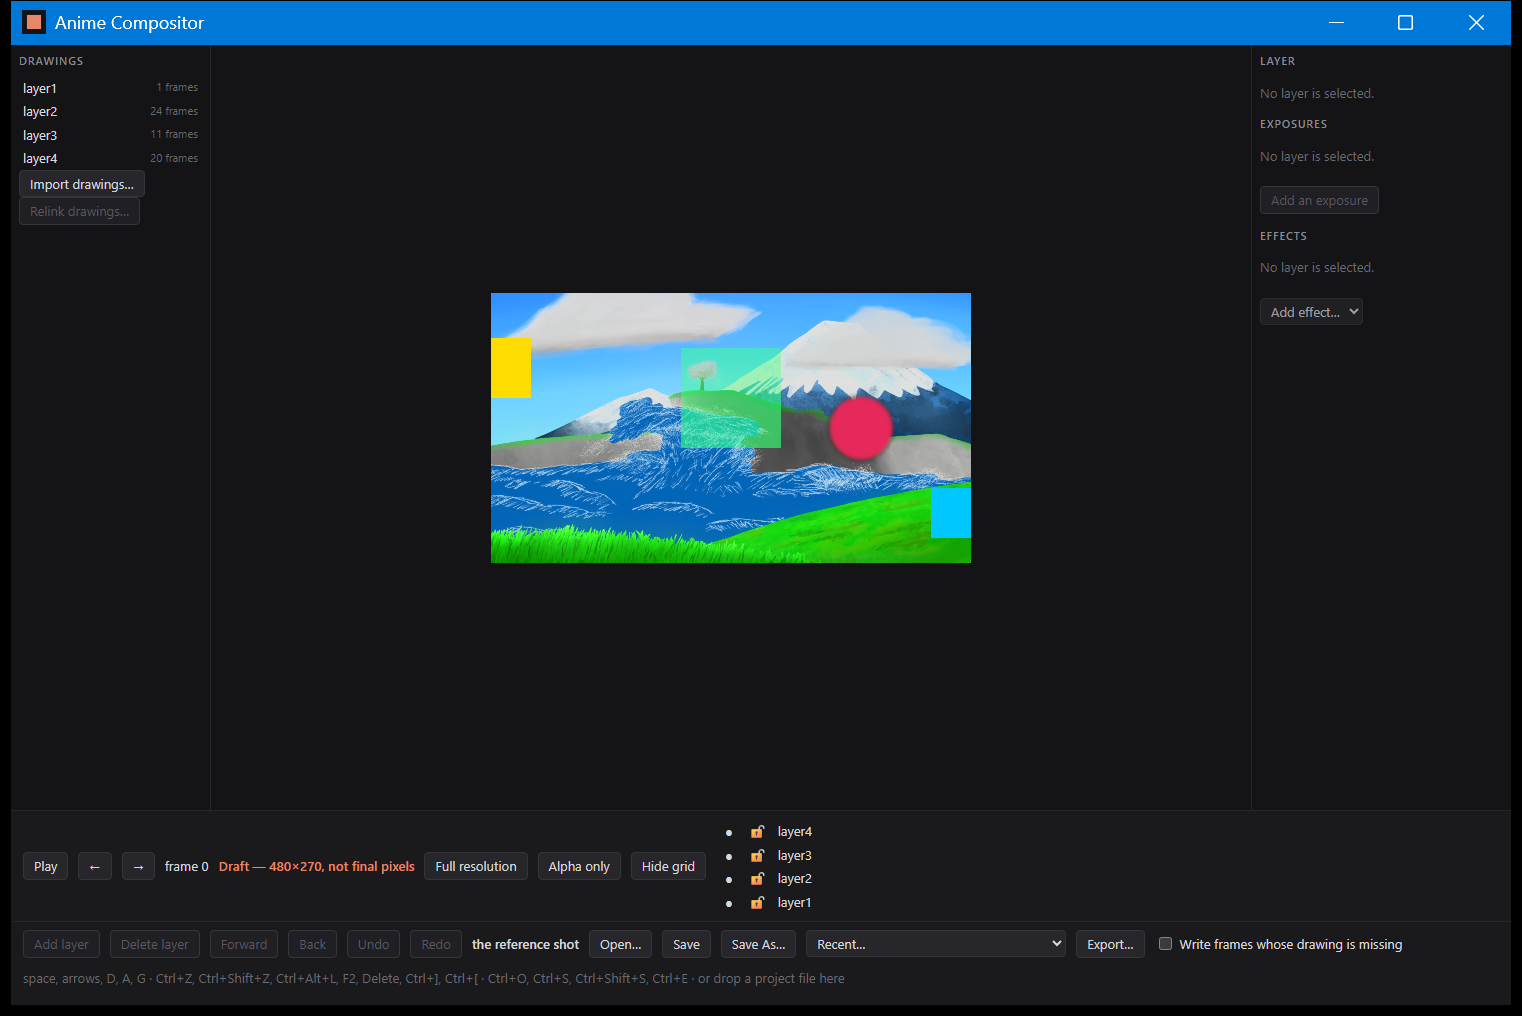
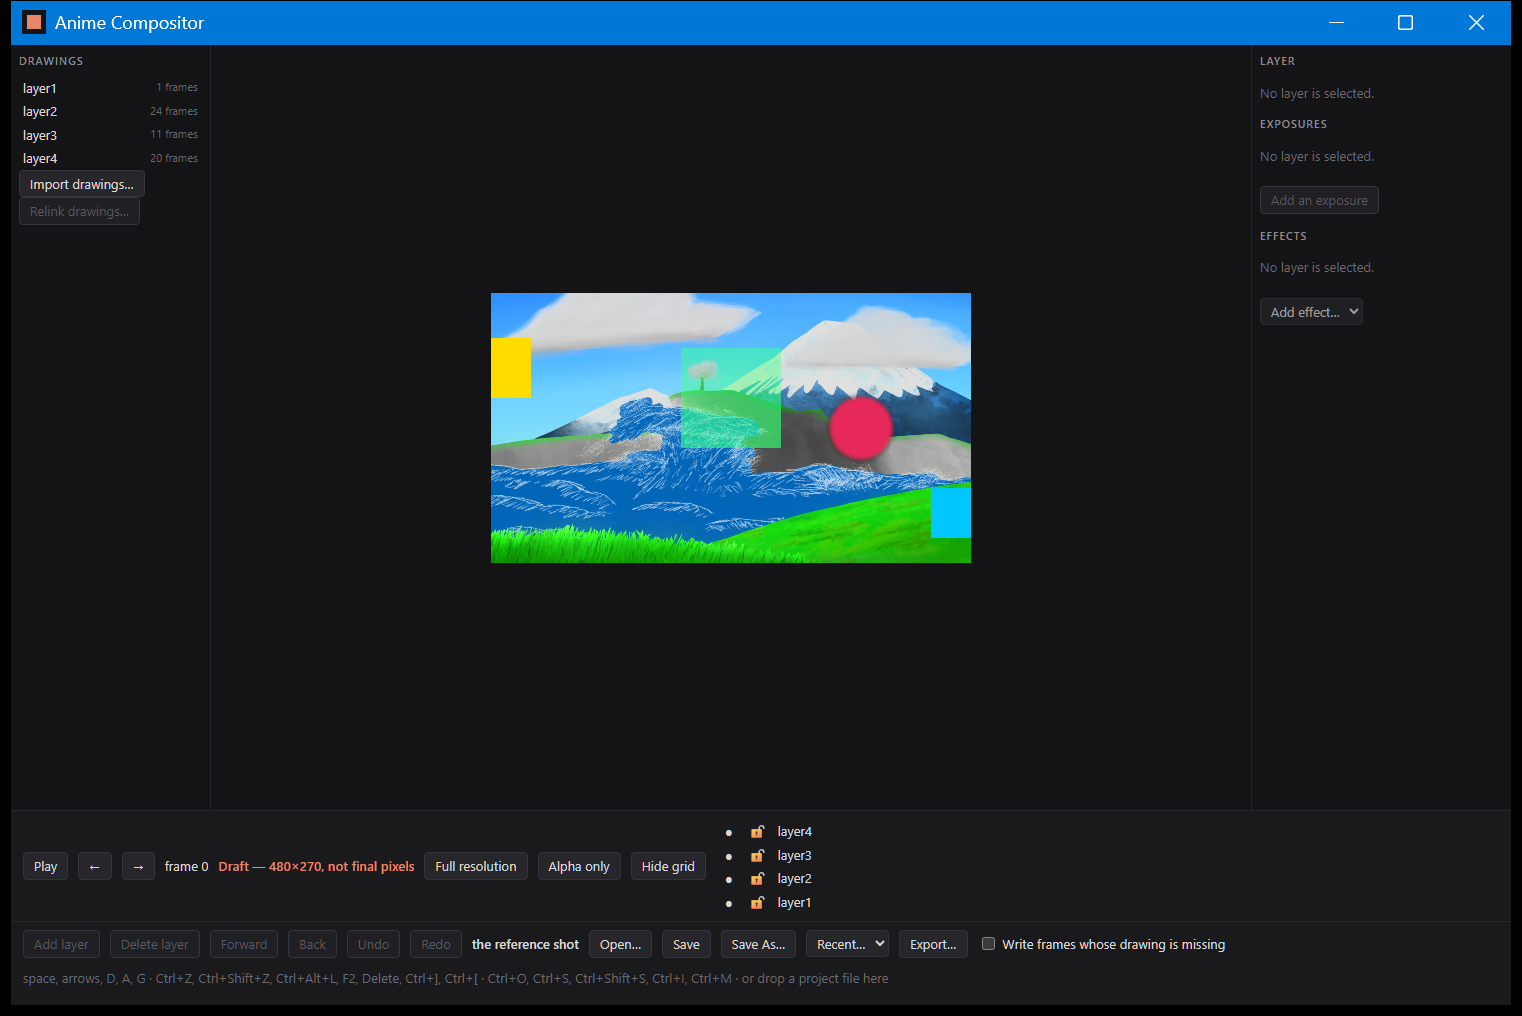
Retake the stale window photographs, and photograph the effects panel (#48)
The four B-12a photographs were taken before the nineteenth hardening pass
corrected the export shortcut in the page, so their keyboard hint line still
read Ctrl+E for a window that answers Ctrl+M. A photograph is the one artifact
here that no test regenerates, so a picture of a window that no longer exists
goes on looking right. All four are retaken against today's build, and a fifth
is added: the three inspectors with something in them, which none of the four
could show because they were all taken with the reference shot, where layer4
has eighty exposure spans and EFFECTS is far below the bottom of the column.
verification/B-12c_effects_shot.json is a six-frame project made for that
photograph and kept beside it, pointing at the reference shot's own drawings.

Retaking them found two defects in the window, both fixed here.

The space bar did two things at once. A focused row in the layer list answered
Space by selecting the layer and preventing the default; the accelerators are a
listener on the window, so the same press reached them afterwards and started
playback. The first retake of the keyboard photograph is a picture of layer4
being selected and the shot playing. A key whose default has already been
answered is now finished with.

An exposure row would not wrap. In a column this narrow the row was wider than
its room, so the whole inspector grew a horizontal scroll bar and every row read
"frames 0 to 2, sh..." with the drawing number off the edge - the one thing an
[…]

diff --git a/app/ui/index.html b/app/ui/index.html
@@ -148,7 +148,10 @@
   #inspector #addeffect, #inspector #addexposure { margin-top: 8px; }
   /* One row per exposure span, in frame order: which frames it covers and which drawing they
      show. This is the exposure sheet W-01 asks the artist to assign, in the panel. */
-  .exposure { display: flex; align-items: baseline; gap: 4px; margin-bottom: 4px; }
+  /* Wrapping, because the column is narrow and a row that cannot wrap makes the whole
+     inspector scroll sideways instead: the photograph of the effects panel found
+     "show drawing" cut off at the column's edge. */
+  .exposure { display: flex; flex-wrap: wrap; align-items: baseline; gap: 4px; margin-bottom: 4px; }
   .exposure span { color: #8b8b94; }
   .exposure input[type=number] { width: 4.5em; }
   .exposure .gone { color: #e8b06a; }
@@ -1024,6 +1027,13 @@ addEventListener('keydown', (e) => {
   // to save rather than start playback, and an arrow on the recent list has to move through the
   // list. Everything else falls through to the accelerators, which are for when nothing in
   // particular is focused.
+  //
+  // And a key a control has already answered is finished with. A row in one of the lists is an
+  // `li`, which the search below does not match and cannot be made to match without matching
+  // every other element too; its own handler answers Space by choosing the row and says so by
+  // preventing the default. Without this line the same press also reached the accelerators and
+  // started playback, which is a photograph of a layer being selected and the shot playing.
+  if (e.defaultPrevented) return;
   const el = e.target instanceof Element
     ? e.target.closest('button, select, input, .scrub, [contenteditable]') : null;
   const typing = renaming || (el && el.tagName === 'INPUT' && el.type !== 'checkbox');

diff --git a/verification/B-12a_window_and_keyboard.md b/verification/B-12a_window_and_keyboard.md
@@ -2,9 +2,16 @@
 
 The eight tables under `B-12a_*_table.md` say that every command the editing panels invoke does
 what it claims. None of them can say that the panels are on the screen, laid out, and operable.
-That is what these four photographs are for, and Q-03 — display scaling and keyboard
-reachability — is the requirement they answer for this window. One keyboard defect was found
-here and is fixed.
+That is what these five photographs are for, and Q-03 — display scaling and keyboard
+reachability — is the requirement they answer for this window. Three defects were found here and
+all three are fixed.
+
+**Retaken on 2026-09-08, under B-12c.** All five were captured against the build of that day. The
+four that existed before were stale in a way worth naming: their keyboard hint line still read
+`Ctrl+E` for the export, which document 24 names as `Ctrl+M` and the nineteenth hardening pass
+corrected in the page months after the pictures were taken. A photograph is the one artifact in
+this repository that no test regenerates, so a photograph of a window that no longer exists goes
+on looking right. Retaking them found the second and third defects below.
 
 ## 1. The five panels
 
@@ -30,15 +37,19 @@ empty box is never mistaken for a value of zero.
 
 ![layer4 chosen by keyboard](B-12a_keyboard.png)
 
-Thirteen presses of Tab and then a space, no mouse at any point. The thirteenth stop is layer4
+Twelve presses of Tab and then a space, no mouse at any point. The twelfth stop is layer4
 in the layer list, the space chooses it, and the LAYER panel fills in on the right: Name,
 Identifier, Drawing, Frames, Anchor, Position, Scale, Rotation, Opacity, Blend, Mask, Matte. The
 transform inspector being populated is the evidence — it is only ever populated for a selected
 layer.
 
 ```
-powershell -ExecutionPolicy Bypass -File tools/capture_window.ps1 -Name B-12a_keyboard -Keys "<13 tabs> "
+powershell -ExecutionPolicy Bypass -Command "& ./tools/capture_window.ps1 -Name B-12a_keyboard -Keys (([char]9).ToString()*12 + ' ')"
 ```
+
+Twelve rather than the thirteen this said before, because a disabled button is not a stop on the
+Tab order and Relink drawings…, Add an exposure and Add effect… are all disabled while nothing is
+selected. The count is a property of the window in this state, not a promise.
 
 **The defect this found, and the fix.** The rows in the layer list and the media bin were
 reachable by Tab and showed a focus ring, so they looked keyboard-operable. They were not: a row
@@ -47,6 +58,17 @@ walk onto a layer and then have no way to select it. Reachable is not the same a
 lists are built by one `row()` function in `app/ui/index.html`, so one handler there fixes both:
 Enter and Space now do what the mouse does. B-11's rule that a focused control keeps the keys it
 is given is what makes the space bar select the row instead of starting playback.
+
+**The second defect, found by retaking this photograph.** The space bar did both. The first
+version of this picture, taken on 2026-09-08 against the build of that day, shows layer4 selected
+*and* the shot playing — Pause on the transport, frame 37, and a line about dropped frames along
+the bottom. The row's own handler chose the row and prevented the default; the accelerators are a
+listener on the window, the event reached them afterwards as it bubbled, and nothing there asked
+whether the key had already been answered. The search that lets a focused control keep the space
+bar looks for a button, a select, an input or a drag handle, and a row is an `li`, which it
+cannot match without matching everything. One line fixes it: a key whose default has already been
+prevented is finished with, and the accelerators leave it alone. The picture above is the same
+twelve presses against the build with that line in it.
 
 ## 3. Display scaling
 
@@ -72,7 +94,39 @@ the interface at that factor inside a window the operating system still sizes at
 150%, so 200% here is a harsher test than a real 200% display, and the title bar is unaffected
 because nothing in this repository draws it.
 
-## What these four do not cover
+## 4. A layer's inspector, with effects on it
+
+![the effects panel](B-12c_effects_panel.png)
+
+The three inspectors with something in them, which the four pictures above never showed: every
+one of them was taken with the reference shot, where layer4 has eighty exposure spans and
+EFFECTS is a long way below the bottom of the column. This is a small project made for the
+photograph and kept beside it: `B-12c_effects_shot.json`, one layer pointing at the reference
+shot's own layer3 drawings in `Fixtures/`, six frames on twos, with a blur and a tint on it,
+captured at 100% so the whole column fits in one picture. Nine presses of Tab reach the layer row
+and the space chooses it.
+
+What it shows, top to bottom: LAYER with the transform fields and the matte chooser; EXPOSURES as
+the layer's three spans, each wrapped over two lines — *frames 0 to 2* / *show drawing 0*, then
+2 to 4 showing drawing 1, then 4 to 6 showing drawing 2, which is one drawing held for two frames,
+three times over; and EFFECTS as the two effects in the order they are applied, each with its own
+settings — **Blur**, *Radius σ, in source pixels*, 4; **Tint**, *Colour, linear RGB*,
+0.9, 0.7, 0.5 and *Amount, 0 to 1*, 0.3. The dot beside a name is its
+bypass toggle and the ✕ removes it. The values are the ones in the project file, which is what
+makes this a check rather than a picture: the file says `sigma_px: 4.0` and the panel says 4.
+
+**The third defect, found here.** An exposure row would not wrap. It is a flex row of *frames*,
+two numbers, *show drawing*, a number and a ✕, and in a column this narrow it was wider than the
+room it had, so the whole inspector grew a horizontal scroll bar and every row read *frames 0 to
+2, sh…* with the drawing number off the edge. A person could not see which drawing a span shows
+without scrolling the panel sideways, which is the one thing an exposure sheet is for. The row
+now wraps onto a second line, which is why each one reads across two lines above.
+
+```
+powershell -ExecutionPolicy Bypass -Command "& ./tools/capture_window.ps1 -Name B-12c_effects_panel -Open 'verification/B-12c_effects_shot.json' -Scale 1.0 -Keys (([char]9).ToString()*9 + ' ')"
+```
+
+## What these five do not cover
 
 - **The Open, Save As and Import dialogs.** Windows draws them and the capture script has no
   hands to answer one. The whole relink and import flow is therefore photographed only up to the
@@ -85,8 +139,8 @@ because nothing in this repository draws it.
   requirement asks for it yet.
 - **A real change of the Windows display setting**, which needs a sign-out and a person.
 
-Captured at 1522×1016 physical pixels, the size a 1000×640 window has on this display running at
-150%. Like every photograph under `verification/`, these are made by `tools/capture_window.ps1`
+All five were captured at 1522×1016 physical pixels, the size a 1000×640 window has on this
+display running at 150%. Like every photograph under `verification/`, these are made by `tools/capture_window.ps1`
 and not by `cargo test`, so no test regenerates them and nothing can disagree with them; window
 placement, the desktop behind the window and the title bar theme belong to the machine and the
 moment.
